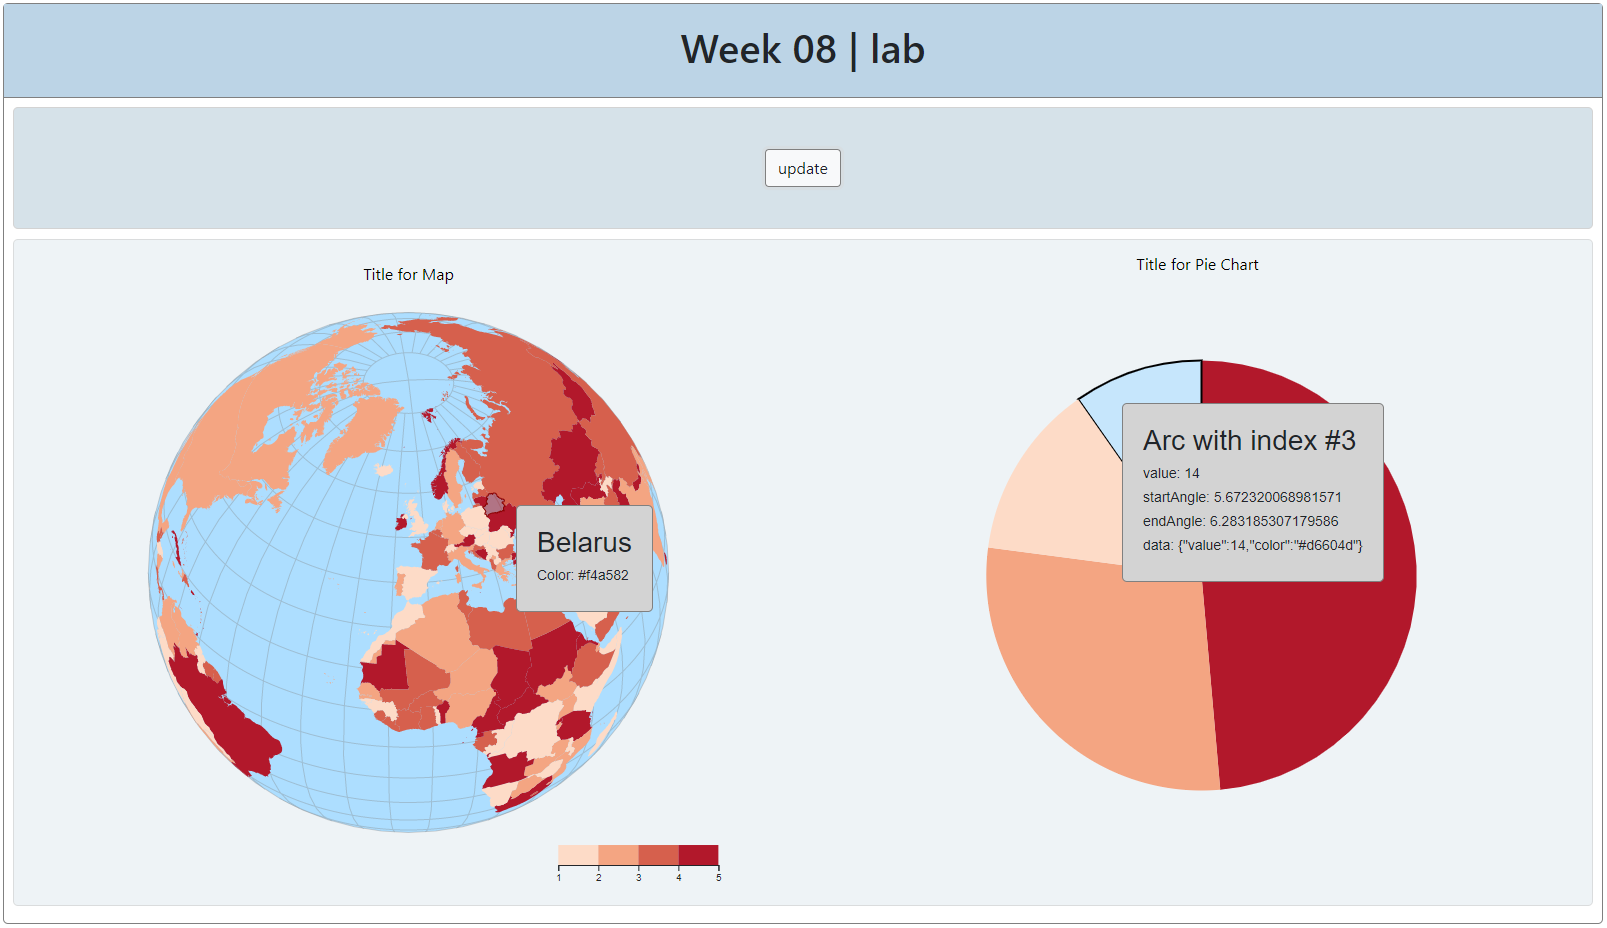
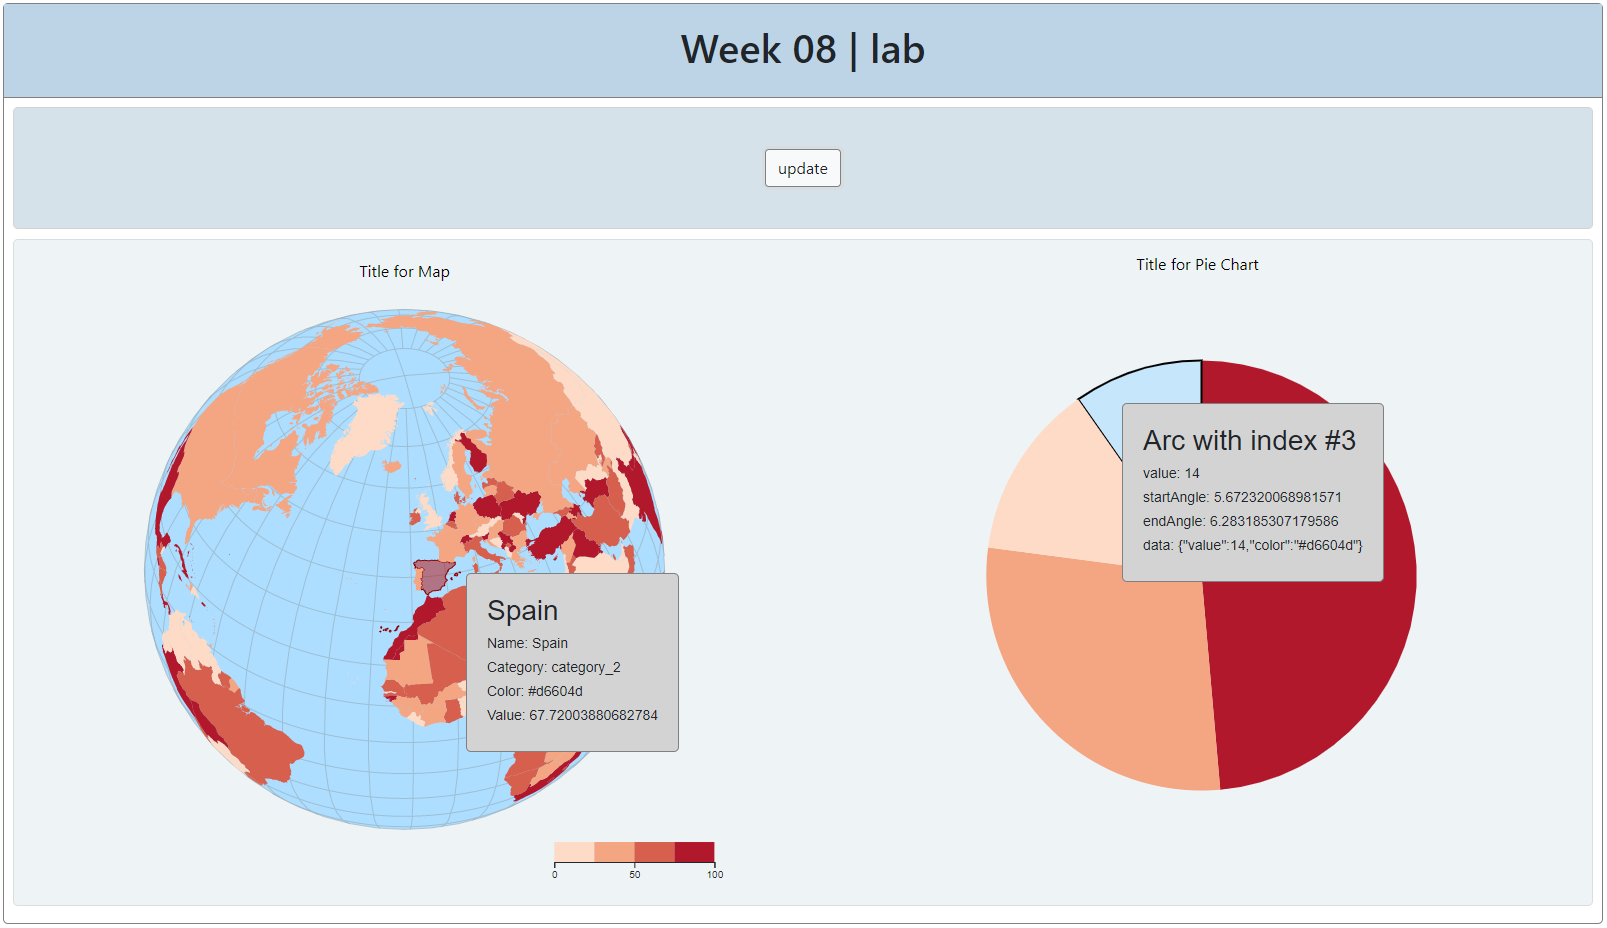
improved stateInfo and legend

Changed region(s): [[0.0933, 0.2812, 0.4356, 0.9062], [0.3423, 0.9062, 0.4667, 0.9375], [0.1556, 0.625, 0.1867, 0.6562]]

diff --git a/week-08/lab/week-08_lab.md b/week-08/lab/week-08_lab.md
@@ -10,7 +10,7 @@ exclude: true
 ![Preview](cs171_w8_lab_preview.png?raw=true "D3 Projections")
 
 ### Pre-Reading Quiz
-Please fill out the pre-reading quiz on Canvas at the beginning of class!
+Please fill out the pre-reading quiz on Canvas *before* the beginning of class!
 
 ### Learning Objectives
 
@@ -58,7 +58,7 @@ Each shape may have distinct features not shared by others, so make sure to cons
 ### Pie Shape
 
 In his week's lab, we will introduce you to d3 shapes by creating a simple pie chart. We will
- make use of make use of the pie shape generator, i.e. the ***d3.pie()*** method, which computes
+ make use of the pie shape generator, i.e. the ***d3.pie()*** method, which computes
   the start and end angles of arcs that comprise a pie or donut chart.
 
 *Example:*
@@ -392,7 +392,7 @@ let path = d3.geoPath()
 #### Map TopoJSON data to geo path elements
 
 After defining the SVG area, the projection and the path generator, we can load the TopoJSON
- data, convert it to GeoJSON and finally map it to SVG paths. Here's a on-liner converting
+ data, convert it to GeoJSON and finally map it to SVG paths. Here's a one-liner converting
   TopoJSON data for the US to GeoJSON. The data structure you end up with will allow you to draw a
    path for each state in the US.
 
@@ -407,7 +407,7 @@ let usa = topojson.feature(data, data.objects.states).features
 
 ![Preview Activity II](cs171_w8_lab_activity2.png?raw=true "D3 Projections")
 
-In the second part of the lab, you will create a choropleth (world)map. You will implement a
+In the second part of the lab, you will create a choropleth (world) map. You will implement a
  feature that updates the colors of the countries as well as a feature that allows users to
   rotate the globe. Lastly, you'll also implement a tooltip that appears when a user hovers a
    country.
@@ -433,7 +433,7 @@ In the second part of the lab, you will create a choropleth (world)map. You will
 	.all to execute all of them. Very similar to our ```d3.csv()``` method, we have access to
 	 all the data inside ```.then()```. Notice, that since we are loading two data sets, the data
 	  structure is an array with two elements. You have to access them by index if you want to
-	   pass on only on as an argument. 
+	   pass on only one as an argument. 
 	
 	```javascript
     let promises = [
@@ -516,9 +516,13 @@ In the second part of the lab, you will create a choropleth (world)map. You will
 5. **Understand what's going on in wrangleData**
 
     Just like in the pieChart, we use wrangleData to create some random data. in this case, we
-     create a dictionary with all countries as keys and random colors from an array of 4 colours
-      that we defined in the constructor. We will use this dictionary as lookup table when
-       assigning colors to the countries in ```updateVis()```, which is your next task.
+     create a dictionary with all countries as keys. As values, each country has an object with
+      information. This information is randomly generated but consistent for each state. What
+       does that mean? Each country has a value between 0-100 (whatever that might measure), a
+        category, that reflects in which quarter 'bin' a country is in, based on its value (i.e
+        . 0-25, 26-50, etc.). We will use the dictionary ```vis.stateInfo``` as lookup table when
+         generating the tooltip and when assigning colors to the countries in ```updateVis()```, 
+          which is your next task.
        
     &nbsp;
 
@@ -537,7 +541,8 @@ In the second part of the lab, you will create a choropleth (world)map. You will
 
     Similar to the pieChart, add a tooltip when hovering over a country path. Also, change the
      color while hovering to have a nice hover effect. If you don't know the code by heart, just
-      look it up in activity I. (Don't forget to append an actual tooltip div!)
+      look it up in activity I. (Don't forget to append an actual tooltip div!) Make sure to
+       include all information that you have access to in the tooltip.
       
     &nbsp;
           
@@ -545,7 +550,8 @@ In the second part of the lab, you will create a choropleth (world)map. You will
 
     You might have been playing around with the fill attribute and maybe you have wondered how to
      change the color of the ocean. Well, that is actually not that easy because we only have the
-      paths for the countries. Of course, on could try to reverse/inverse-engineer the paths for the
+      paths for the countries. Of course, one could try to reverse/inverse-engineer the paths for
+       the
        ocean but there's an easier way out. Let's just put a sphere behind the map. Here's the
         code for it:
         
@@ -575,11 +581,15 @@ In the second part of the lab, you will create a choropleth (world)map. You will
         
 9. **Add legend**
 
-    The map/globe looks nice now, but you are missing one important piece - a legend. For now, we
-     would like you to implement a legend with four steps reflecting the four different colors in
-      the color array in the constructor. Think of this task as producing a very small barchart
-       with less complex data.
-       
+    The map/globe looks nice now, but you are missing one important piece - a legend. Check out
+     the sample data to decide what legend you want to use. In general, you always have to make
+      the decision whether to use a continuous color scale or discrete color steps. 
+      
+    In this case, we would like you to implement a legend using discrete color steps first. 
+     You can make use of the ```color``` key value pair for each state in the ```stateInfo
+     ``` data structure. ```color``` reflects the ```category``` a country is in, which signifies
+      in which ```value``` range a state is in, i.e. 0-25, 26-50, 51-75, 76-100. 
+             
     These are the steps to complete the task:
     - start by creating a legend group and translate it to wherever you want it to be.
     
@@ -596,16 +606,19 @@ In the second part of the lab, you will create a choropleth (world)map. You will
         .enter()
         ...
     ```
-    - create a legendScale (linear, band, time - whatever you need)
+    - create a legendScale
     - create a legend axis group
     - create a legend axis
     - call the legend axis inside the legend axis group
- 
+    
+   If you want to play around with a continuous color legend, feel free to do so. Here,s a useful
+    [link]: (https://www.visualcinnamon.com/2016/05/smooth-color-legend-d3-svg-gradient)
+    
    &nbsp;
  
 10. **Make the map draggable / rotatable** 
 
-    You made it this far! Now you've earned some free code. THe following lines allow your to
+    You made it this far! Now you've earned some free code. The following lines allow your to
      drag your map which will result in the globe to rotate. In short, what the code does is to
       get the values where you started dragging and where you ended and computes the change in
        pixel values. Together with the information from the projection we can then update the
